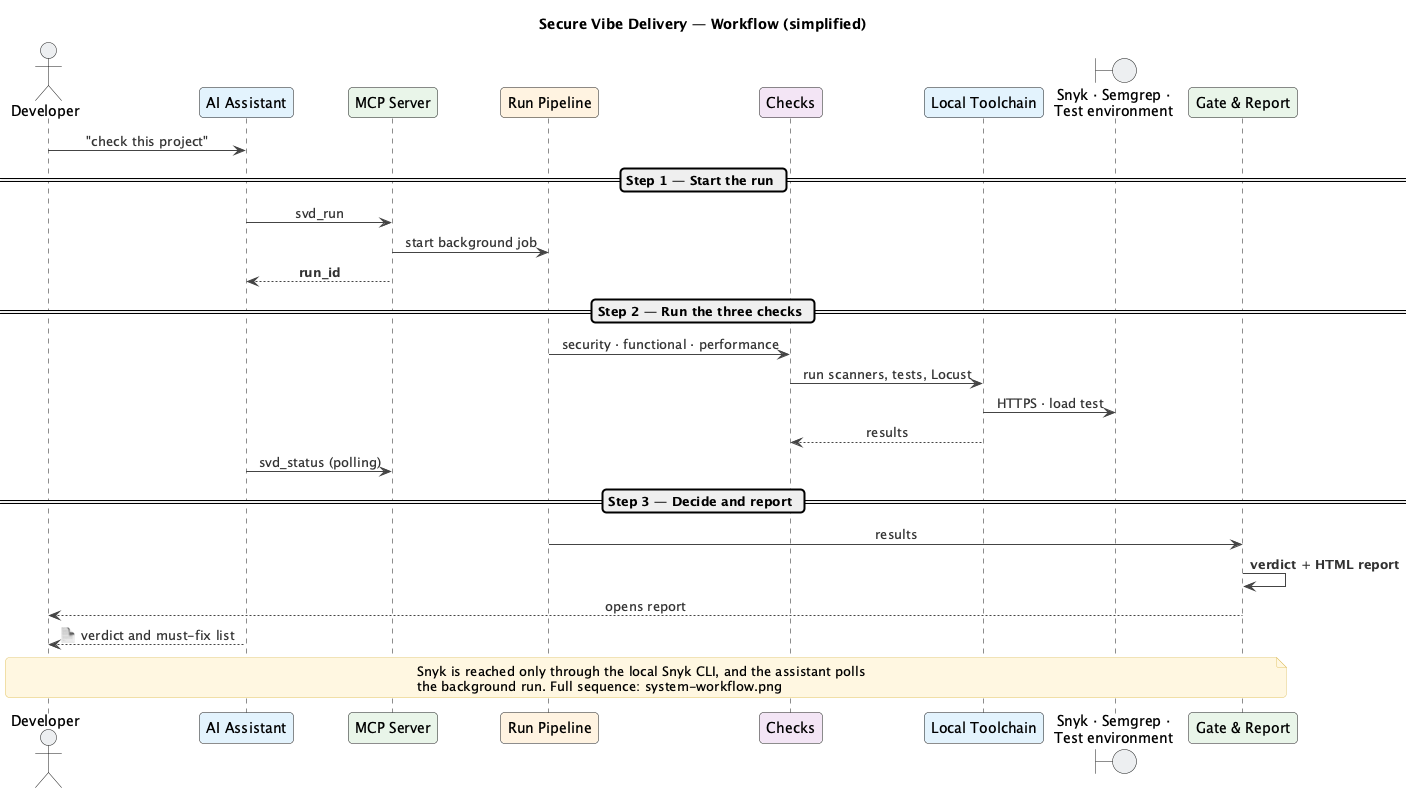
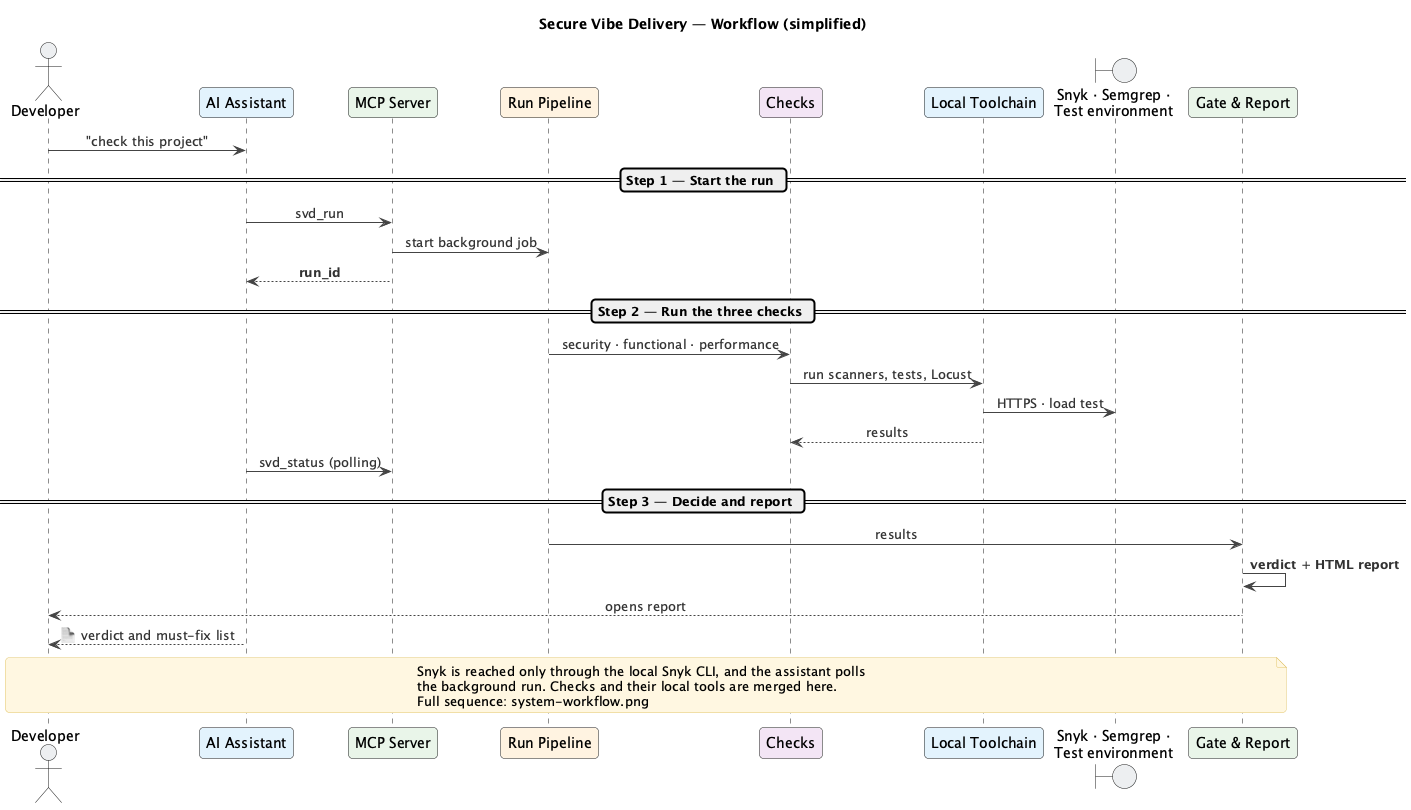
Docs: diagrams show each check's own local tool
- Full PlantUML architecture and workflow: split "Local Toolchain" into
  Snyk CLI · Semgrep, pytest / Jest and Locust, matching the demo and the
  component diagram; "Fixing Skills" renamed to "Skills"
- Mermaid diagram updated the same way
- Simplified diagrams keep one toolchain box; their notes now say so

diff --git a/docs/architecture/system-diagram.md b/docs/architecture/system-diagram.md
@@ -22,7 +22,7 @@ flowchart TD
 
     subgraph Server["MCP server (uvx child process, stdio)"]
         MCP["MCP Server<br/>FastMCP · 9 svd_* tools"]
-        SK["Fixing Skills<br/>5 skill:// guides"]
+        SK["Skills<br/>5 skill:// fixing guides"]
         SETUP["Guided Setup<br/>svd_setup"]
         DOC["Doctor<br/>svd_doctor"]
         PIPE["Run Pipeline<br/>background job · run_id"]
@@ -36,7 +36,11 @@ flowchart TD
         REND["Report Renderer<br/>Jinja2 · health score"]
     end
 
-    TOOLS["Local Toolchain<br/>Snyk CLI · Semgrep · pytest/Jest · Locust"]
+    subgraph Tools["Local tools (subprocesses)"]
+        SCAN["Snyk CLI · Semgrep<br/>security scanners"]
+        PYT["pytest / Jest<br/>project test runner"]
+        LOC["Locust<br/>load generator · uvx"]
+    end
     RUNS[("Run Records<br/>.svd/runs · .svd/reports")]
     CHROME["Chrome / Edge<br/>headless PDF (optional)"]
 
@@ -56,16 +60,17 @@ flowchart TD
     PIPE -->|"runs in order"| SEC
     PIPE --> FUN
     PIPE --> PERF
-    SEC -->|subprocess| TOOLS
-    FUN -->|subprocess| TOOLS
-    PERF -->|subprocess| TOOLS
-    SETUP -->|"auth, login"| TOOLS
-    DOC -->|"versions, whoami"| TOOLS
+    SEC -->|subprocess| SCAN
+    FUN -->|"runs tests"| PYT
+    PERF -->|"load profile"| LOC
+    SETUP -->|"auth, login"| SCAN
+    DOC -->|"versions, whoami"| SCAN
     SEC -->|"HTTPS"| REG
-    TOOLS -->|"HTTPS, token"| SNYK
-    TOOLS -->|HTTPS| SGR
-    TOOLS -->|"uvx fetch"| REG
-    TOOLS -->|"load test"| TEST
+    SCAN -->|"HTTPS, token"| SNYK
+    SCAN -->|HTTPS| SGR
+    SCAN -->|"uvx fetch"| REG
+    LOC -->|"uvx fetch"| REG
+    LOC -->|"load test"| TEST
     SETUP -->|"CLI download"| SNYK
     PIPE -->|results| GATE
     PIPE -->|"run state"| REND
@@ -82,4 +87,4 @@ flowchart TD
 
 - Solid arrows = request/command direction; dashed = polling or a reverse-direction hand-back (the assistant polling a run, the report opening for the developer).
 - Dark boxes = external systems Secure Vibe Delivery depends on but doesn't control.
-- Everything inside "MCP server" runs in one local process; the Local Toolchain runs as subprocesses of it.
+- Everything inside "MCP server" runs in one local process; the local tools run as subprocesses of it.
